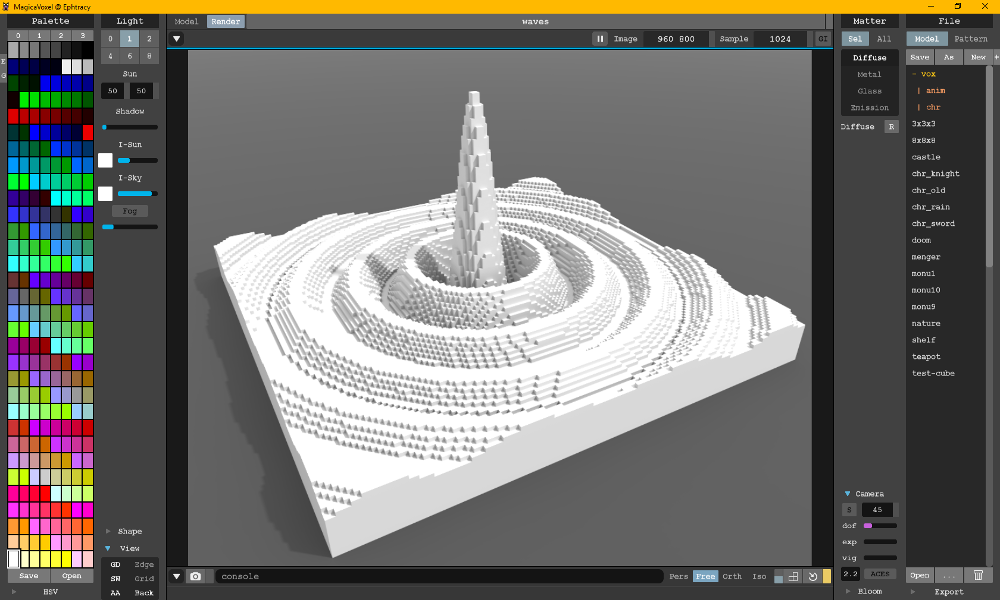
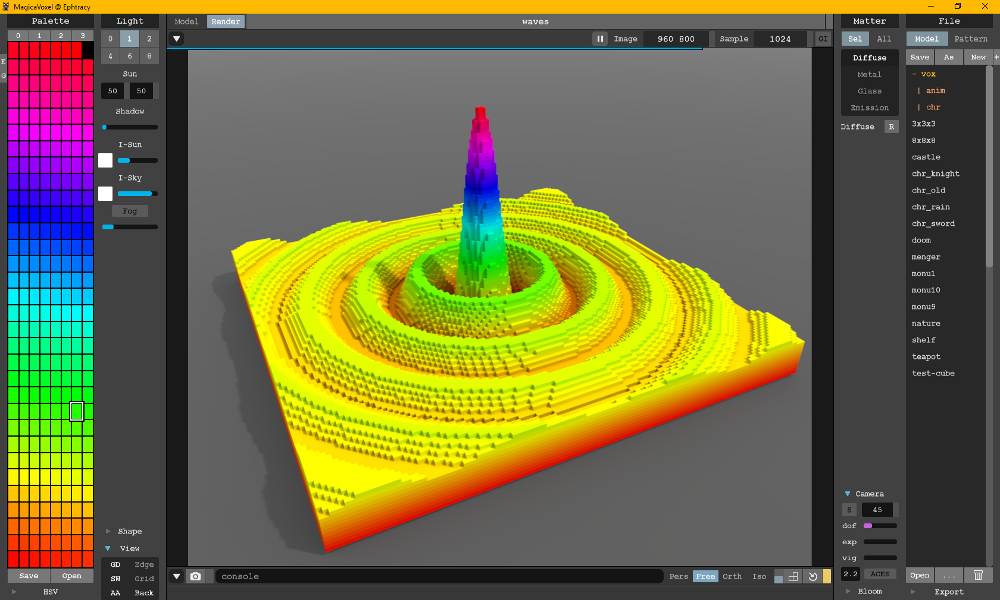
Updated sample code and image to show palette generation.

Changed region(s): [[0.217, 0.15, 0.806, 0.93], [0.0, 0.06, 0.093, 0.96], [0.713, 0.06, 0.837, 0.09]]

diff --git a/README.md b/README.md
@@ -16,34 +16,36 @@ row_count = 126
 col_count = 126
 plane_count = 64
 
+palette = generate_rainbow_colourmap()
+
 # Create a simple heightmap (could also load something from disk)
 heightmap = generate_waves_heightmap(row_count, col_count)
 
 # Create a NumPy array
 voxels = np.zeros((plane_count, col_count, row_count), dtype=np.uint8)
 
-# Select a material (white in default palette)
-material_index = 1
+# Later we will choose a material based on the height (plane) of the voxel
+palette_offset_per_plane = (len(palette) - 1.0) / plane_count
 
 # For each voxel in the volume
 for plane in range(0, plane_count):
     for col in range(0, col_count):
         for row in range(0, row_count):
-
+            
             # Get the height from the heightmap, and
             # scale to the height of the volume
             height = heightmap[col, row]
             height *= plane_count
-
+            
             # If the current voxel is below the
             # heightmap then set it to be solid.
             if plane <= height:
-                voxels[plane][col][row] = material_index 
-
+                voxels[plane][col][row] = palette_offset_per_plane * plane
+    
 
 # Save the volume to disk as a MagicaVoxel file.
 filename = "waves.vox"
-voxbox.magicavoxel.write(voxels, filename)
+voxbox.magicavoxel.write(voxels, filename, palette)
 ```
     
 # Result
